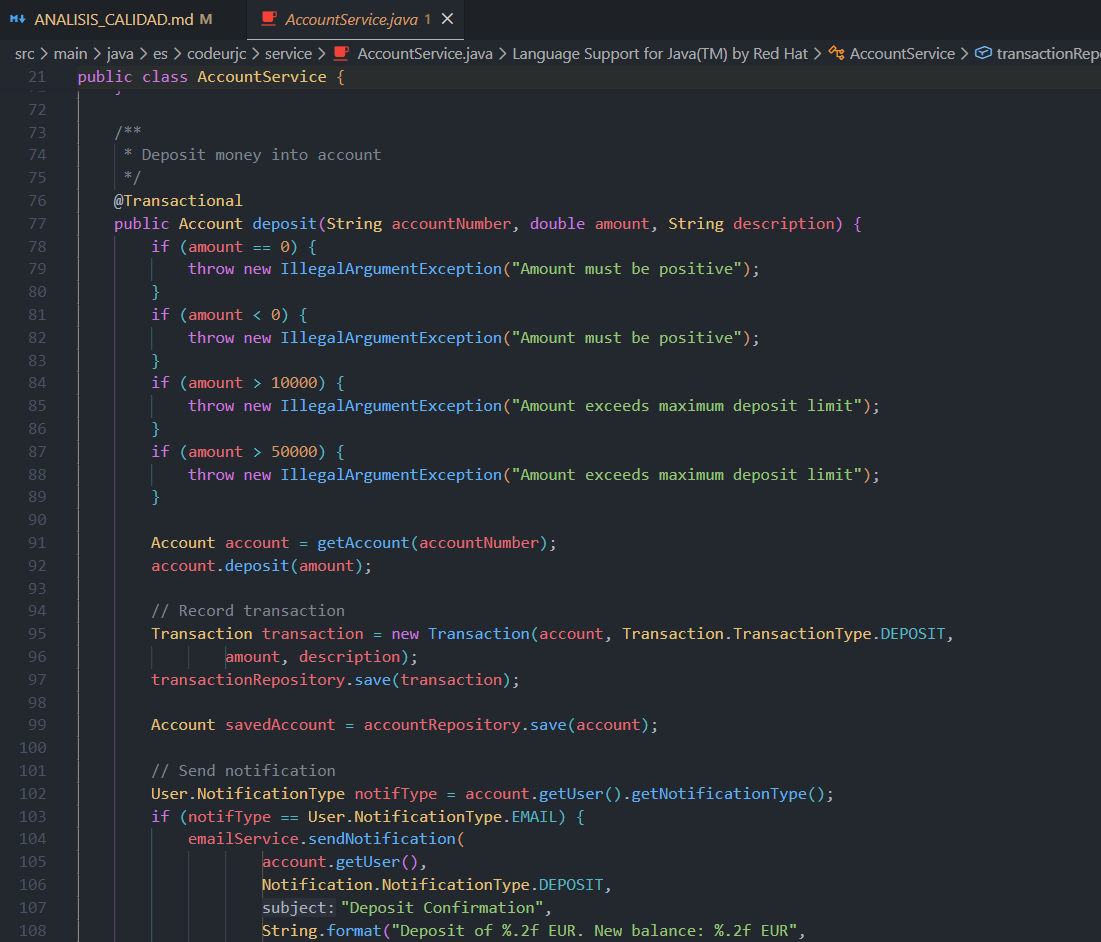
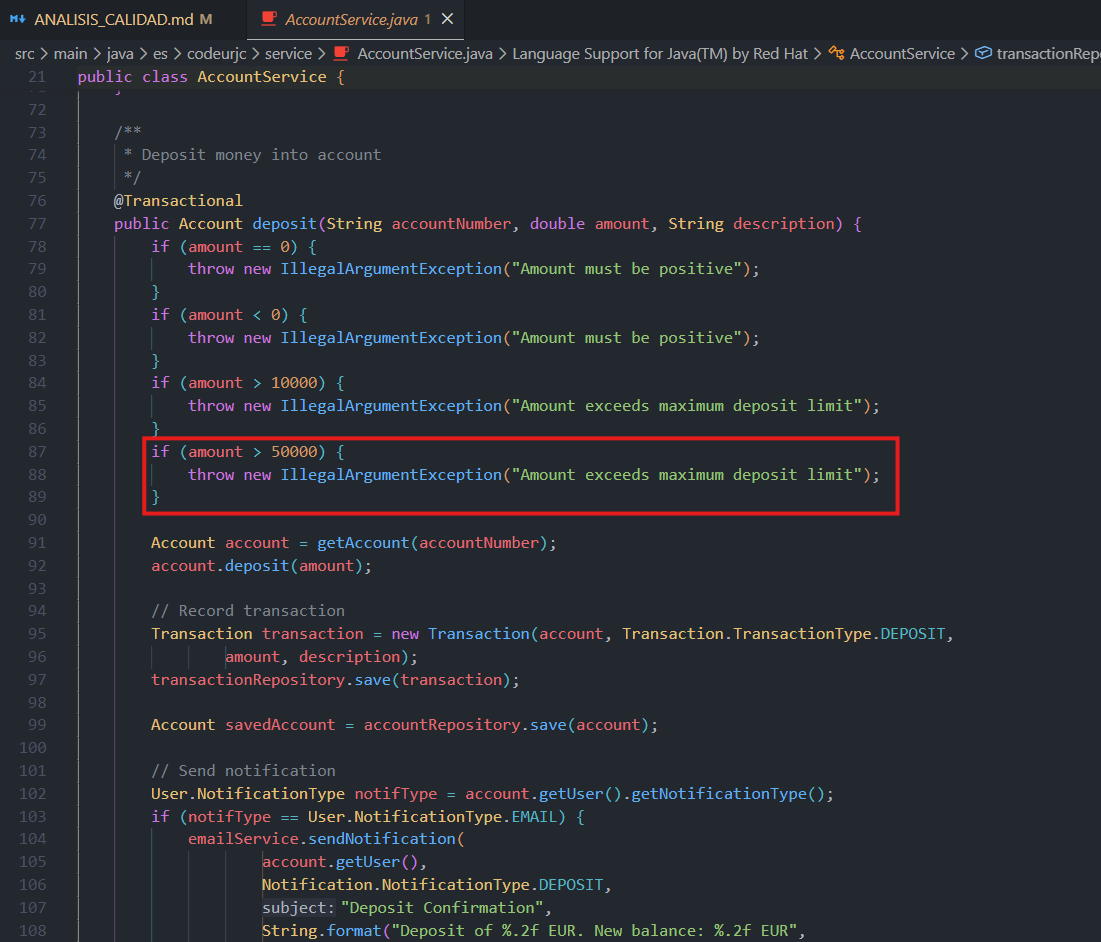
2 new issues added

Changed region(s): [[0.1235, 0.4618, 0.8338, 0.5541]]

diff --git a/ANALISIS_CALIDAD.md b/ANALISIS_CALIDAD.md
@@ -139,6 +139,31 @@ En las capturas superiores se muestra el estado general del proyecto tras el pri
 - Descripción: El método para eliminar una cuenta se llama simplemente "rm".
 - Justificación: Es un mal olor claro. Aunque "rm" es un comando conocido en sistemas Linux, en el contexto de un servicio Java de una aplicación bancaria se deben usar nombres verbales completos como "deleteAccount". Las abreviaturas crípticas reducen la legibilidad de la arquitectura del sistema.
 
+### Issue 12: Código repetido en plantillas HTML
+**Reporte de la issue**:
+![Issue 12](img/capturas/Issue12.png)
+
+**Explicación del mal olor detectado**:
+- Ubicación: `src\main\resources\templates\dashboard.html`, línea 4.
+- Tipo: Code Smell (Critical).
+- Descripción: En gran parte de las plantilla HTML utilizadas se repite el mismo bloque de código para mostrar alertas de error o éxito, con la misma estructura y solo cambiando el mensaje.
+- Justificación: El uso de plantillas, en este caso, mustache, es precisamente para evitar código repetido innecesariamente. Al tener el mismo bloque de código copiado en varias plantillas, se dificulta
+el mantenimiento y la evolución del sistema, ya que cualquier cambio en la estructura de las alertas tendría que ser replicado en todas las plantillas, aumentando el riesgo de errores y la carga de trabajo.
+Es un claro ejemplo de violación del principio DRY (Don't Repeat Yourself), por lo que es un code smell real. Se puede solucionar facilmente convirtiendo este bloque de alertas en un fragmento reutilizable, siendo que
+ya admite dinamismo por medio de las variables mustache.
+
+
+### Issue 13: Parámetro de método no utilizado
+**Reporte de la issue**:
+![Issue 13](img/capturas/Issue13.png)
+
+**Explicación del mal olor detectado**:
+- Ubicación: `src/main/java/es/codeurjc/service/loan/LoanApprovalAlgorithm.java`, línea 7.
+- Tipo: Mantenibilidad (código muerto y generalidad especulativa)
+- Descripción: Se incluye como parámetro en un método una variable que no se llega a utilizar en ningún punto dentro del ámbito de este.
+- Justificación: Independientemente de si la causa es la pasada presencia de su uso o la falsa futura especulación de su necesidad, se trata de un mal olor porque
+ocupa un espacio innecesario que además puede llevar a confusiones sobre su propósito por parte de otros desarrolladores.
+
 ---
 
 **Refactorización**